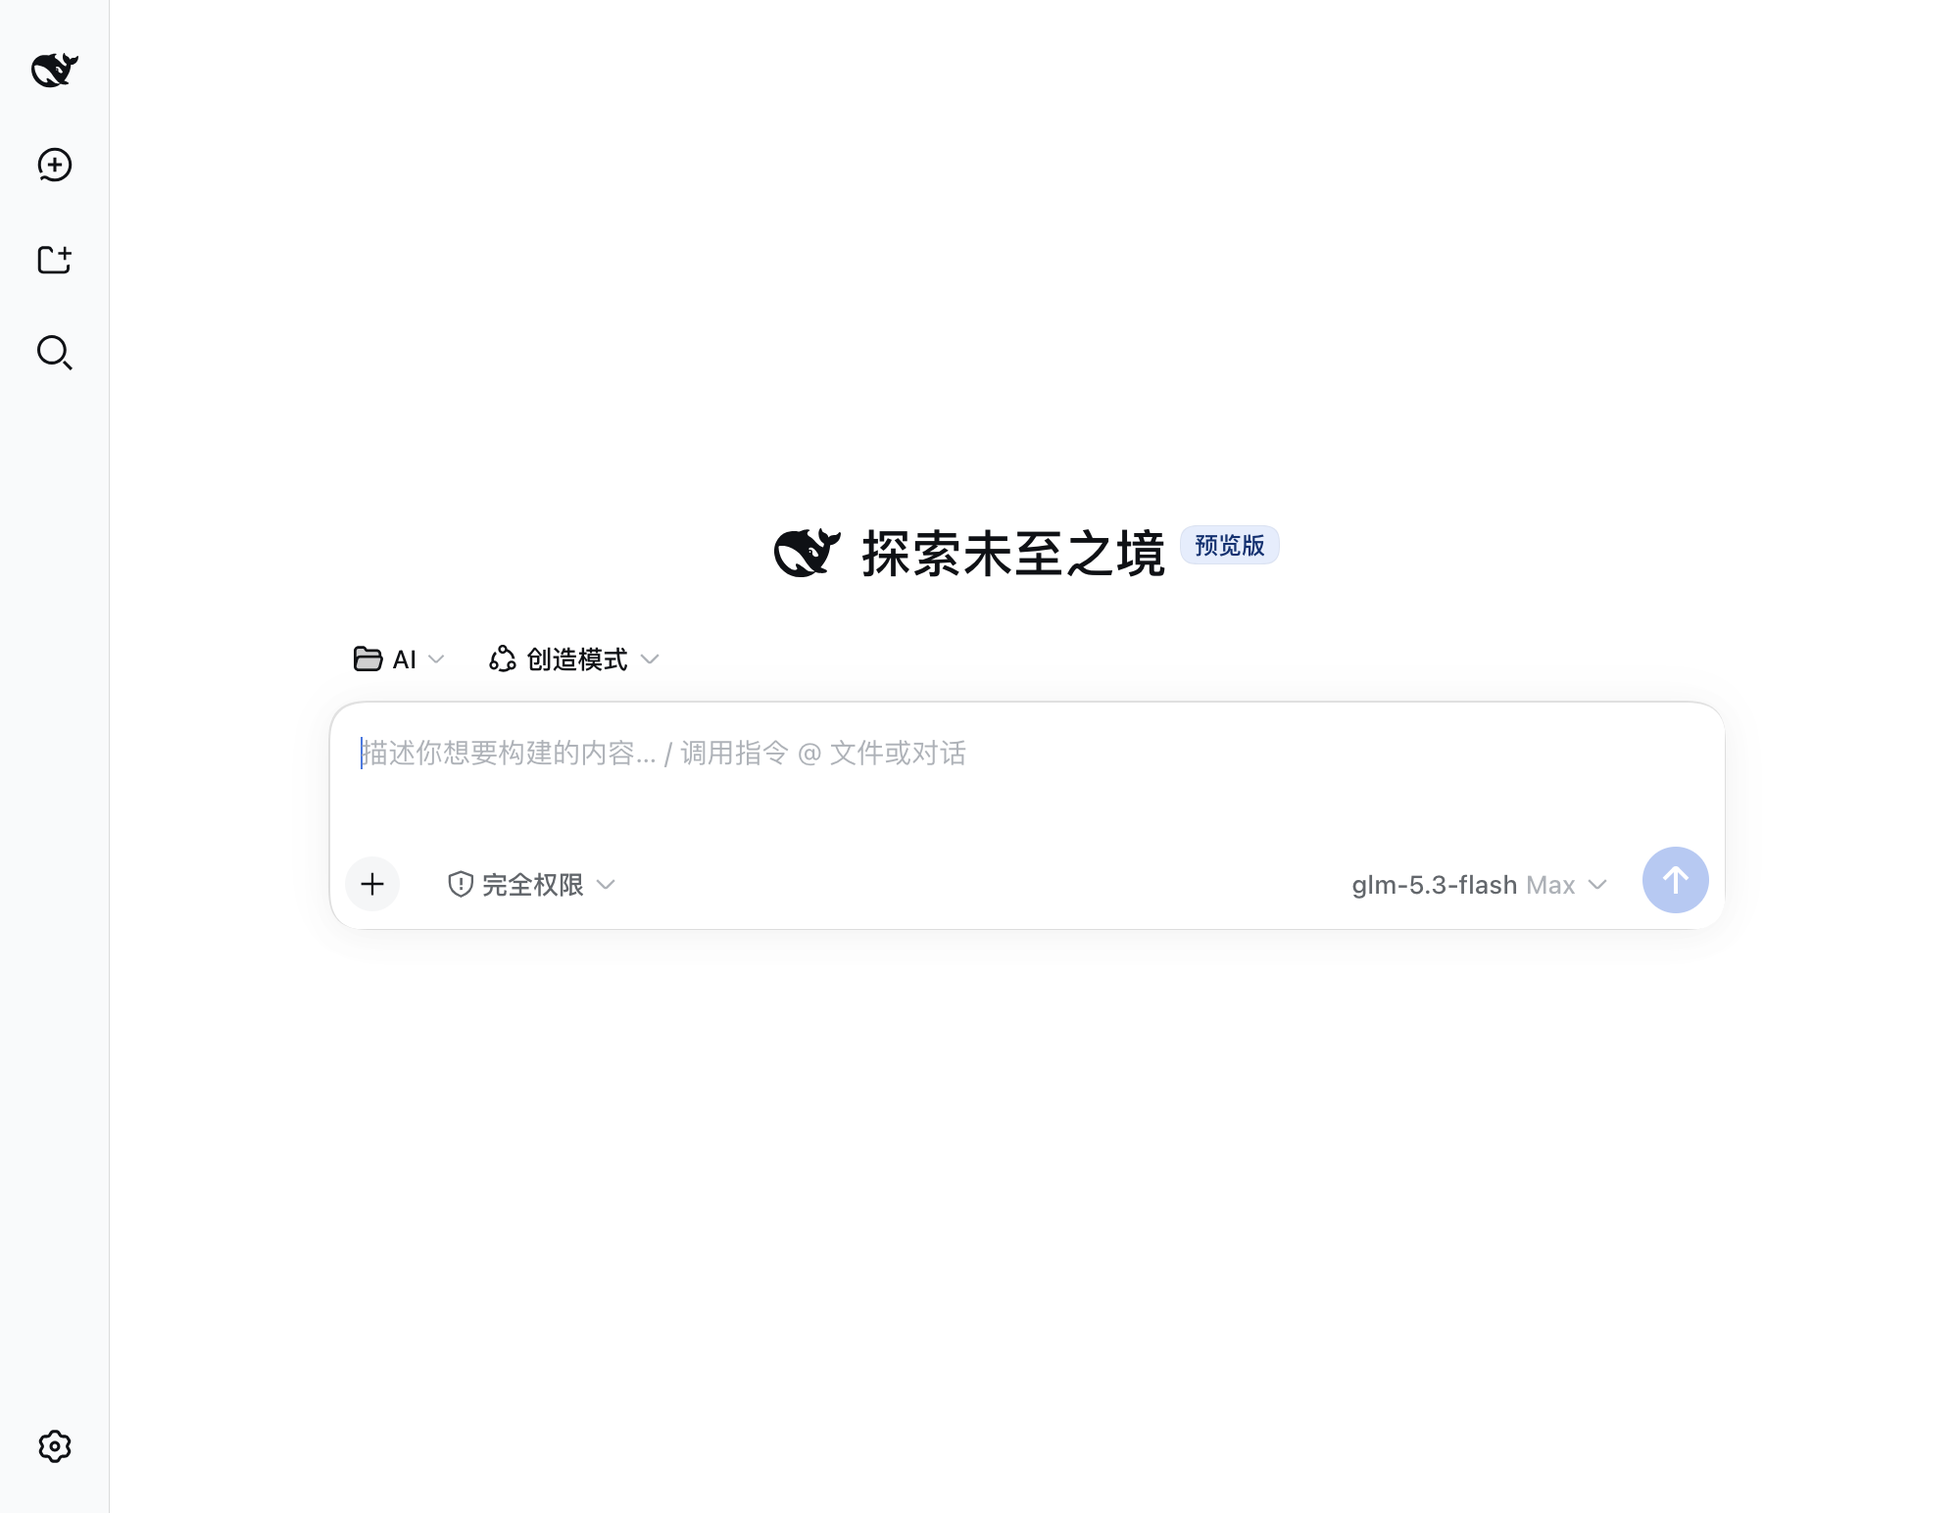
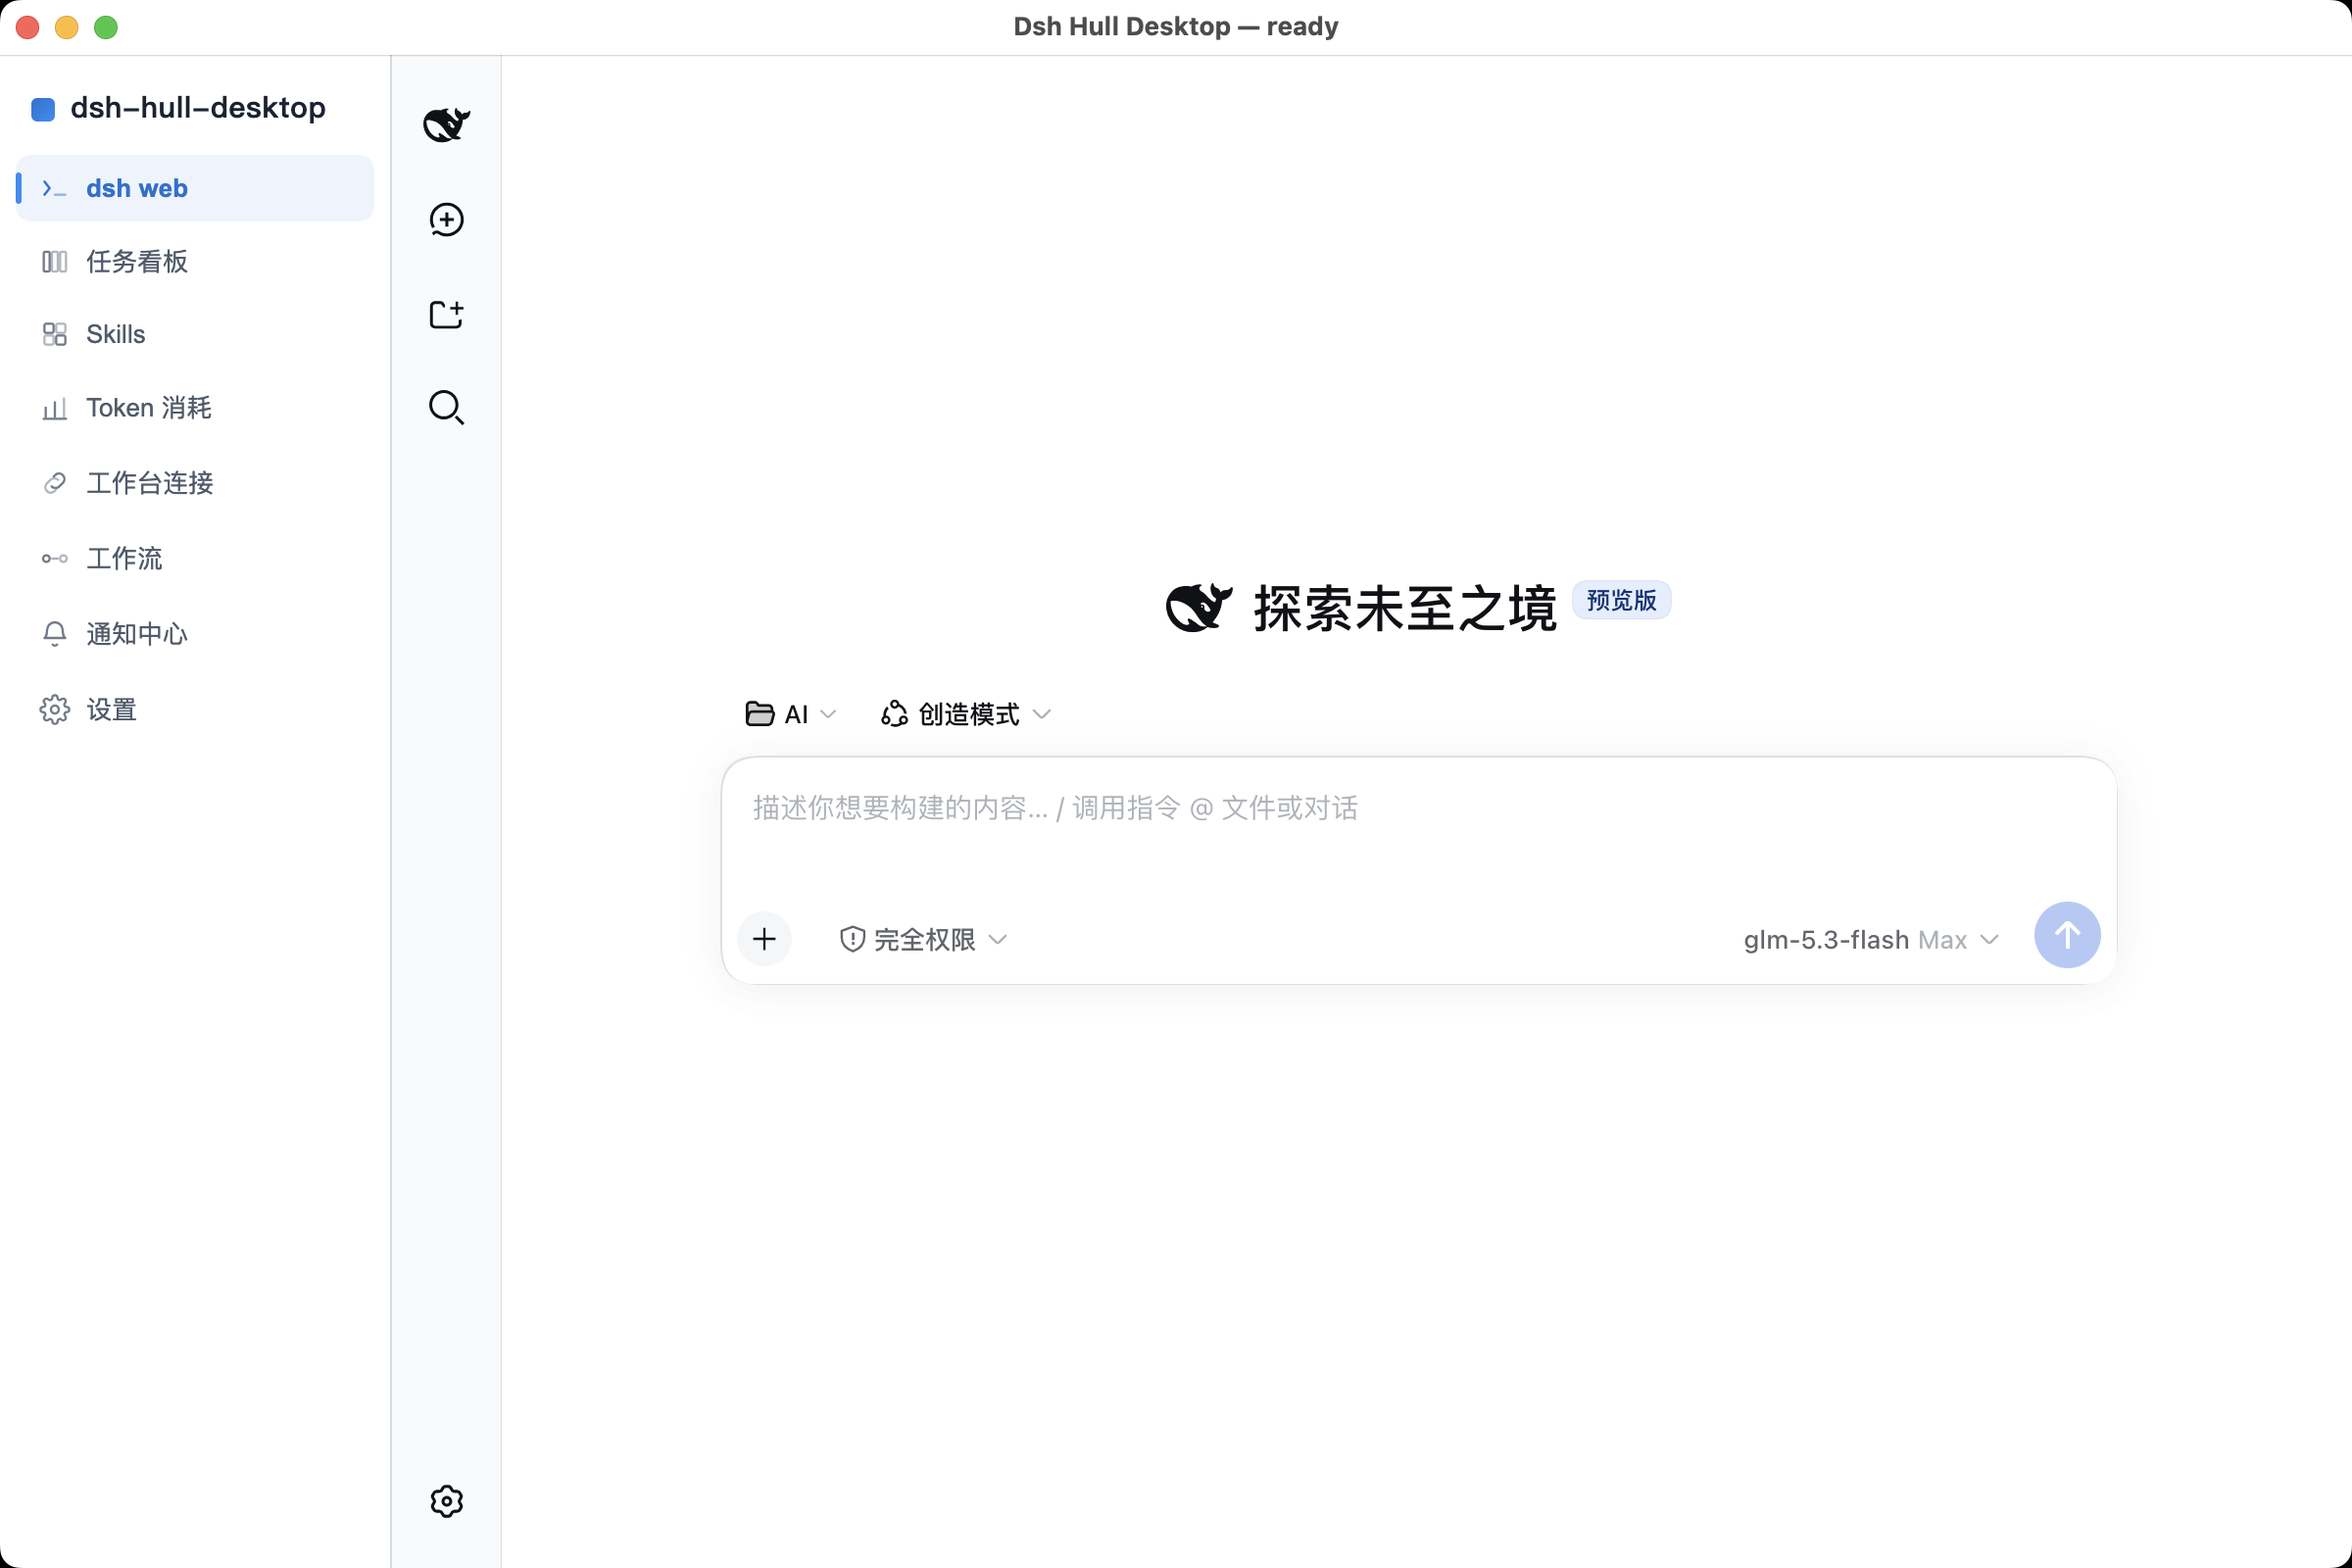
docs(readme): dsh-web shot with shell nav via desktopCapturer + hide nav-status block
主窗口 capturePage 不合成 WebContentsView——改用 desktopCapturer 抓窗口源像素，壳 nav 与官方 UI 同框；截图前隐藏 nav 状态区（真实 dsh web URL 含 ?token= 不进公开 README）；清理孤儿 captureOfficialPage

diff --git a/tests/e2e/capture-screenshots.spec.ts b/tests/e2e/capture-screenshots.spec.ts
@@ -81,19 +81,25 @@ function captureWindow(app: import('@playwright/test').ElectronApplication): Pro
     .then((b64) => Buffer.from(b64, 'base64'));
 }
 
-/** 官方 UI webContents 自身截图（绕开主窗口 capturePage 不合成 WebContentsView 的限制） */
-function captureOfficialPage(app: import('@playwright/test').ElectronApplication): Promise<Buffer> {
+/** 整窗合成截图（desktopCapturer 抓窗口源像素——包含 WebContentsView 层，即壳 nav + 官方 UI 同框） */
+function captureWindowComposited(app: import('@playwright/test').ElectronApplication): Promise<Buffer> {
   return app
-    .evaluate(({ webContents }) =>
+    .evaluate(({ desktopCapturer, BrowserWindow }) =>
       (async () => {
-        const wc = webContents.getAllWebContents().find((w) => w.getURL().startsWith('http://127.0.0.1:'));
-        if (!wc) return '';
-        const img = await wc.capturePage();
-        return img.toPNG().toString('base64');
+        const win = BrowserWindow.getAllWindows()[0];
+        const b = win.getBounds();
+        const sources = await desktopCapturer.getSources({
+          types: ['window'],
+          thumbnailSize: { width: Math.max(b.width * 2, 2400), height: Math.max(b.height * 2, 1600) },
+          fetchWindowIcons: false,
+        });
+        const src = sources.find((s) => s.name === win.getTitle()) ?? sources[0];
+        if (!src) return '';
+        return src.thumbnail.toPNG().toString('base64');
       })()
     )
     .then((b64) => {
-      if (!b64) throw new Error('官方 UI webContents 未找到');
+      if (!b64) throw new Error('desktopCapturer 未抓到窗口源（可能缺屏幕录制权限）');
       return Buffer.from(b64, 'base64');
     });
 }
@@ -161,10 +167,17 @@ test.describe('README 截图采集', () => {
         throw new Error('真实 dsh web 未在 60s 内就绪');
       }
       await waitForMainWindow(app, 30_000);
+      // 隐藏 nav 状态区：真实 dsh web URL 含 ?token=（虽 localhost-only 也不该进公开 README），顺带消「检查更新中」噪声
+      const shell = shellPage(app);
+      if (shell) {
+        await shell.evaluate(() => document.getElementById('nav-status')?.style.setProperty('display', 'none'));
+        await shell.waitForTimeout(300);
+      }
       await new Promise((r) => setTimeout(r, 4000)); // 等官方 UI 渲染稳定
       const outDir = join(PROJECT_ROOT, 'docs', 'screenshots');
       mkdirSync(outDir, { recursive: true });
-      writeFileSync(join(outDir, 'dsh-web.png'), await captureOfficialPage(app));
+      // 整窗合成截图（壳 nav + 官方 UI 同框；desktopCapturer 含 WebContentsView 层）
+      writeFileSync(join(outDir, 'dsh-web.png'), await captureWindowComposited(app));
     } finally {
       await app.close();
     }
